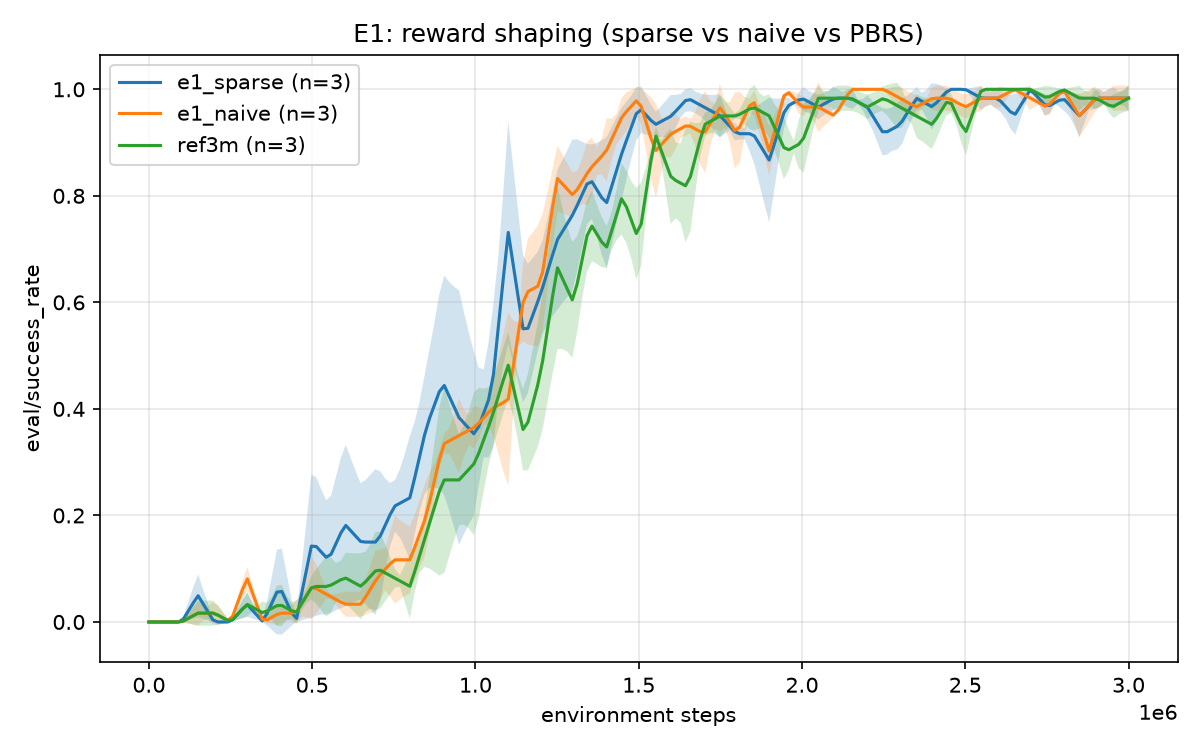
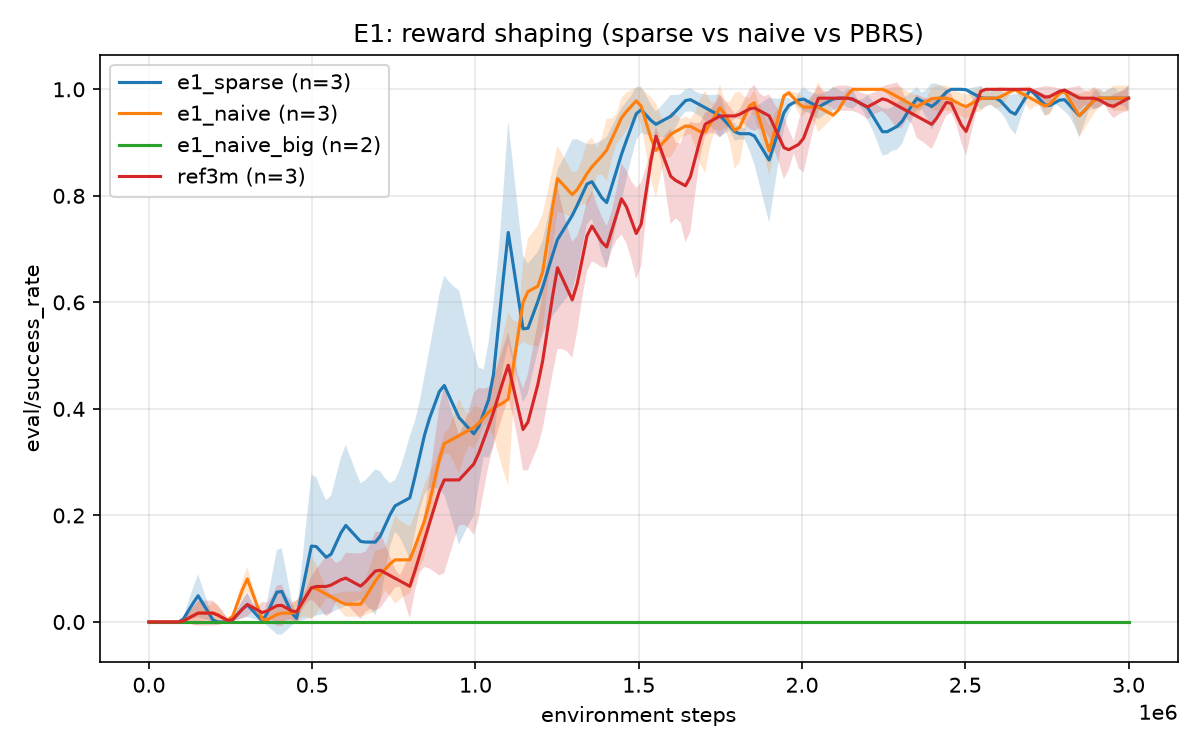
Phase 5: DQN arm, 3-seed curriculum ablation, reward-hacking demo, Optuna sweep

Changed region(s): [[0.1233, 0.092, 0.925, 0.8587], [0.0925, 0.184, 0.3392, 0.2453], [0.8325, 0.092, 0.9558, 0.1533]]

diff --git a/docs/experiments.md b/docs/experiments.md
@@ -125,11 +125,13 @@ than removed.
 |---|---|---|---|
 | reference (`ref3m`) | PBRS + curriculum + masking, unlimited layouts | 0.99 [0.97, 1.00] | 0.78 [0.77, 0.79] |
 | E1 shaping | sparse | 0.99 [0.98, 0.99] | 0.81 [0.80, 0.82] |
-| | naive (hackable) | 1.00 [0.99, 1.00] | 0.83 [0.81, 0.87] |
+| | naive (hackable), bonus 0.1 | 1.00 [0.99, 1.00] | 0.83 [0.81, 0.87] |
+| | naive (hackable), bonus 1.0 (2 seeds) | **0.00** | **0.00** |
+| E2 PPO vs DQN | DQN, penalty, no masking | 0.00 [0.00, 0.00] | 0.00 [0.00, 0.00] |
 | E3 observation | vector MLP, local 7x7 patch | 0.24 [0.20, 0.30] | 0.16 [0.12, 0.21] |
 | E4 layouts | 10 training layouts | 0.94 [0.93, 0.96] | 0.80 [0.76, 0.87] |
 | | 100 training layouts | 1.00 [0.99, 1.00] | 0.80 [0.78, 0.81] |
-| E5 curriculum | off (**1 seed**) | 0.53 (n=1) | 0.33 (n=1) |
+| E5 curriculum | off | 0.57 [0.53, 0.63] | 0.39 [0.33, 0.45] |
 | E6 masking | plain PPO + invalid-action penalty | 0.00 [0.00, 0.00] | 0.00 [0.00, 0.00] |
 
 Budget matters more than most of these choices: the same configuration reaches 0.78 efficiency at 3M
@@ -142,13 +144,18 @@ What each experiment says, and what it does not:
   differs from the single-seed Phase 4 result without the curriculum at 2M steps, where sparse reward
   reached 58% success and 0.14 efficiency against 76% and 0.53 with PBRS. The likeliest explanation is that the curriculum and masking already solve
   the exploration problem, so shaping adds little; E5 below supports this but is one seed.
-- **E1, reward hacking: not observed.** The naive bonus is +0.1 per step that gets closer to the goal.
-  By my arithmetic, oscillating earns about +0.04 per step, roughly +10 over a full-length episode
-  against about +28 for finishing the task, so the exploit is weak at this setting. I did not verify
-  that explanation by experiment. Training and held-out success are about 100%, so the agents did not
-  find it. A demonstration of hacking would need a much larger bonus (for example `naive_bonus: 1.0`,
-  not run). Eval returns are not comparable across reward arms (the naive arm adds its bonus), so compare
-  success and efficiency only.
+- **E1, reward hacking: not at the default bonus, clearly at 10x.** The naive bonus is +0.1 per step that
+  gets closer to the goal. By my arithmetic oscillating earns about +0.04 per step, roughly +10 over a
+  full-length episode against about +28 for finishing, so the exploit is weak at that setting, and the
+  default-bonus agents (100% success) did not find it. With `naive_bonus: 1.0` (`e1_naive_big`, 2 seeds,
+  3M steps) both agents hack: 0% held-out success, **0 items delivered**, every episode runs the full 308
+  steps, yet the mean return is about +150 (146 and 149). In a replay of an in-training checkpoint of
+  this arm, 97% of the moves undid the previous move. `docs/figures/warehouse_reward_hacking.gif` shows the final policy of seed 0. The bonus
+  pays +1 for each step towards the subgoal and nothing for stepping away, so a step back and forth
+  nets more than any delivery bonus. That is the mechanism the potential-based form is designed to rule
+  out; I did not run PBRS at bonus 1.0, so the cure is shown by the Phase 4/5 PBRS runs only at the
+  default scale. Eval returns are not comparable across reward arms, so compare success and efficiency
+  only (and note that here a high return coincides with total task failure).
 - **E3, observation design.** The vector MLP reaches only about a quarter of the success of the
   grid CNN. Observation type and network changed together, and the vector observation only sees a 7x7 local
   patch, so this shows that "whole-map grid + CNN beats local patch + MLP", not which of the two matters.
@@ -158,28 +165,61 @@ What each experiment says, and what it does not:
   not worse than on the training layouts). So on this layout family somewhere between 10 and 100 layouts is
   enough to generalise. The held-out efficiency level varies a lot between seeds (0.76-0.87 with 10
   layouts), so do not rank the arms on efficiency.
-- **E5, curriculum (one seed).** Without the curriculum, one seed reaches 53% held-out success and 0.33
-  efficiency at 3M steps, against 97-100% and 0.77-0.79 with it, and its learning curve climbs late and
-  noisily (`results/phase5_E5_curriculum_curves.png`). This points the same way as the 2M-step result in Phase 4. It is
-  a single seed, so treat it as a strong hint, not a measured effect size.
+- **E5, curriculum (3 seeds).** Without the curriculum the agent reaches 57% held-out success
+  (53, 57, 63%) and 0.39 efficiency (0.33-0.45) at 3M steps, against 97-100% and 0.77-0.79 with it. All three
+  seeds are below the lowest curriculum seed, and the learning curves climb late and noisily
+  (`results/phase5_E5_curriculum_curves.png`). The 2M-step result in Phase 4 points the same way. Seed 0
+  came first as a single run (53%); seeds 1-2 were run afterwards and agree. With more steps the gap could
+  narrow: this measures speed of learning at 3M steps, not the final ceiling.
 - **E6, masking.** Plain PPO with a -0.1 invalid-action penalty and no masking never learned to move: all
   three seeds have 0% success and about 300 invalid actions per episode (the whole time limit). The
   comparison changes the algorithm class (PPO vs MaskablePPO) as well as masking, and it does not isolate the
   penalty size, so it shows that this penalty setup fails, not that no penalty setup could work.
+- **E2, PPO vs DQN: both fail without masking.** SB3 DQN (grid CNN, same curriculum, invalid actions
+  penalised like the PPO arm of E6) gets 0% success on all three seeds with 122-242 invalid actions per
+  episode, against about 300 for penalty-only PPO. So neither algorithm learns the task without masking,
+  and this experiment cannot rank them: it shows the masking, not the algorithm, decides the outcome.
+  A fair DQN comparison would need masked DQN (SB3 has none), a longer run, or a tuned exploration
+  schedule. The DQN hyperparameters were set once, untuned, and 3M steps is a modest budget for
+  off-policy learning here, so a stronger DQN is not ruled out.
+
+### Hyperparameter sweep (Optuna)
+
+`rlagent tune configs/sweeps/ppo_warehouse.yaml`: TPE sampler with a median pruner on a cheaper problem
+(10x10, 2 items, no curriculum, 1M steps, seed 0). The objective is mean efficiency of the final policy
+on 50 fresh *training-distribution* layouts, so the held-out layouts were never used. 27 trials ran
+(17 completed, 10 pruned; the target was 24, and parallel workers overshoot it). Results:
+`results/tuning/ppo_warehouse_trials.csv`, `results/tuning/ppo_warehouse_best.yaml`.
+
+- **Best trial (13):** efficiency 0.935, success 98%: learning rate 9.8e-4 (linear decay), entropy
+  coefficient 0.0011, gamma 0.995, GAE lambda 0.9, 128 steps, batch 256, 9 epochs, clip 0.2.
+- **Pattern in the top 5:** all use GAE lambda 0.9, gamma 0.995 and batch size 256, learning rates of
+  4e-4 to 1e-3 (default 3e-4), entropy 0.001-0.002 (default 0.005) and 8-10 epochs (default 4). Gamma
+  0.995 was already the default; lambda 0.9 and batch 256 shift the other way.
+- **Not shown:** that the tuned configuration beats the default. The sweep never evaluated the default
+  hyperparameters on this problem, and the best of 27 single-seed trials is optimistically biased (the
+  trial scores are noisy: 50 episodes, one seed). Neither the headline nor any ablation uses the tuned
+  values, which stay a candidate. `configs/experiments/tuning_check.yaml` is the fair check (default
+  vs tuned, 3 fresh seeds each, about 35 minutes); it has not been run.
+- **Operational note:** three of the four parallel workers crashed at start-up on a database race
+  (study creation); the sweep ran on one worker for about 5 hours before I added three workers to the same
+  study. The result is unaffected, but the run took longer than the 3 hour estimate.
 
 ### Not run
 
-- **E2, PPO vs DQN**: the DQN arm was not run (its speed was never measured, and 3 seeds are about 8
-  hours of compute). `results/phase5_E2_ppo_vs_dqn.*` therefore shows only the PPO arm.
-- **Optuna sweep** (`configs/sweeps/ppo_warehouse.yaml`), **E5 seeds 1-2**, the **16x16 / 5-item** setting
-  and the from-scratch PPO on the warehouse (E7).
+- The **tuned-vs-default check** above, the **16x16 / 5-item** setting, the from-scratch PPO on the
+  warehouse (E7), and PBRS at a large bonus.
 
 ### Cost and an interruption
 
 The core runs took about 6h40m of wall time on 4 workers (21 jobs, started 22:09, finished 04:47), then
-about 1h40m for E4 (100 layouts) and E5. Runs came in faster than estimated (a 3M-step run took
+about 1h40m for E4 (100 layouts) and E5 seed 0. Runs came in faster than estimated (a 3M-step run took
 1h10m-1h30m against the 1h37m estimate). A forced Windows Update restart killed the first attempt at the
 second batch at 15%; it was re-run from zero, so no partial run is in the results.
+
+A second night (started 23:34) ran DQN x3, E5 seeds 1-2 and the two large-bonus runs as 7 jobs on 4
+workers (finished 05:09, 5h35m against a 4h59m estimate; DQN ran at about 264 steps/s per worker with 3
+workers, `results/throughput_dqn.csv`), followed by the Optuna sweep (finished 10:20).
 
 ## Phase 5 plan (as designed)
 

diff --git a/README.md b/README.md
@@ -13,7 +13,7 @@ A config-driven reinforcement learning system: Stable Baselines3 and from-scratc
 | 2 | From-scratch DQN and PPO | Done |
 | 3 | Warehouse-v0 environment and baselines | Done |
 | 4 | Warehouse training and reward engineering | Done (target met) |
-| 5 | Experiments, tuning, statistics | Core experiments done; DQN arm and Optuna sweep not run |
+| 5 | Experiments, tuning, statistics | Done (E2 DQN, E5 and the Optuna sweep included; tuned-vs-default check not run) |
 | 6 | Streamlit dashboard | Done |
 | 7 | Polish | Planned |
 
@@ -134,13 +134,14 @@ Ablations at 3M steps (3 seeds each unless noted; 3-seed intervals understate th
 | Question | Result |
 |---|---|
 | Does reward shaping matter? | Little, once the curriculum and masking are in: sparse 0.81, naive 0.83, PBRS 0.78 efficiency, all about 99-100% success |
-| Does the hackable "naive" shaping cause reward hacking? | Not at the default bonus; no hacking observed (a larger bonus was not tried) |
+| Does the hackable "naive" shaping cause reward hacking? | Not at the default bonus (0.1). At 1.0 both seeds hack: 0% success, nothing delivered, return about +150 ([GIF](docs/figures/warehouse_reward_hacking.gif)) |
 | Mask or penalise invalid actions? | Masking is essential: plain PPO with a penalty never learned to move (0% success, 3/3 seeds) |
+| PPO vs DQN? | Not decidable here: DQN with a penalty and no masking also gets 0% success (3/3 seeds), like penalty-only PPO |
 | Observation design | Whole-map grid + CNN: ~99% success; local-patch vector + MLP: 24% (network and observation changed together) |
 | How many training layouts? | 10 layouts: 94% held-out success with a train/held-out gap; 100 layouts: no measurable gap |
-| Curriculum on vs off | Off: 53% success, 0.33 efficiency (one seed only) vs 97-100% / 0.78 with it |
+| Curriculum on vs off | Off: 57% success, 0.39 efficiency (3 seeds) vs 99% / 0.78 with it, at 3M steps |
 
-**Not done yet:** the DQN arm of PPO vs DQN, the Optuna sweep, more E5 seeds. Details, caveats and per-run numbers: [docs/experiments.md](docs/experiments.md) and `results/phase5_summary.md`.
+**Hyperparameter sweep:** 27 Optuna trials (10x10, 2 items, 1M steps) found a configuration scoring 0.935 efficiency; that score is the best of 27 single-seed trials, and the tuned values have not been compared against the defaults or used in any reported result. **Not done:** that comparison (`configs/experiments/tuning_check.yaml`), the 16x16 setting. Details, caveats and per-run numbers: [docs/experiments.md](docs/experiments.md) and `results/phase5_summary.md`.
 
 ## Dashboard (Phase 6)
 

diff --git a/results/phase5_summary.md b/results/phase5_summary.md
@@ -10,13 +10,15 @@
 |---|---|---|---|---|
 | e1_sparse | 3 | 0.99 [0.98, 0.99] | 0.81 [0.80, 0.82] | 72 [70, 73] |
 | e1_naive | 3 | 1.00 [0.99, 1.00] | 0.83 [0.81, 0.87] | 69 [65, 72] |
+| e1_naive_big | 2 | 0.00 [0.00, 0.00] | 0.00 [0.00, 0.00] | 308 [308, 308] |
 | ref3m | 3 | 0.99 [0.97, 1.00] | 0.78 [0.77, 0.79] | 74 [72, 76] |
 
-### E2: PPO vs DQN (both without masking; masked PPO shown for reference; DQN arm not run yet)
+### E2: PPO vs DQN (both without masking; masked PPO shown for reference)
 
 | Group | Seeds | Success (held-out) | Efficiency (held-out) | Episode length |
 |---|---|---|---|---|
 | e6_ppo_penalty | 3 | 0.00 [0.00, 0.00] | 0.00 [0.00, 0.00] | 308 [308, 308] |
+| e2_dqn | 3 | 0.00 [0.00, 0.00] | 0.00 [0.00, 0.00] | 308 [308, 308] |
 | ref3m | 3 | 0.99 [0.97, 1.00] | 0.78 [0.77, 0.79] | 74 [72, 76] |
 
 ### E3: observation design (vector MLP vs grid CNN)
@@ -38,7 +40,7 @@
 
 | Group | Seeds | Success (held-out) | Efficiency (held-out) | Episode length |
 |---|---|---|---|---|
-| e5_no_curriculum | 1 | 0.53 (n=1) | 0.33 (n=1) | 201 (n=1) |
+| e5_no_curriculum | 3 | 0.57 [0.53, 0.63] | 0.39 [0.33, 0.45] | 186 [166, 201] |
 | ref3m | 3 | 0.99 [0.97, 1.00] | 0.78 [0.77, 0.79] | 74 [72, 76] |
 
 ### E6: invalid-action penalty vs masking
